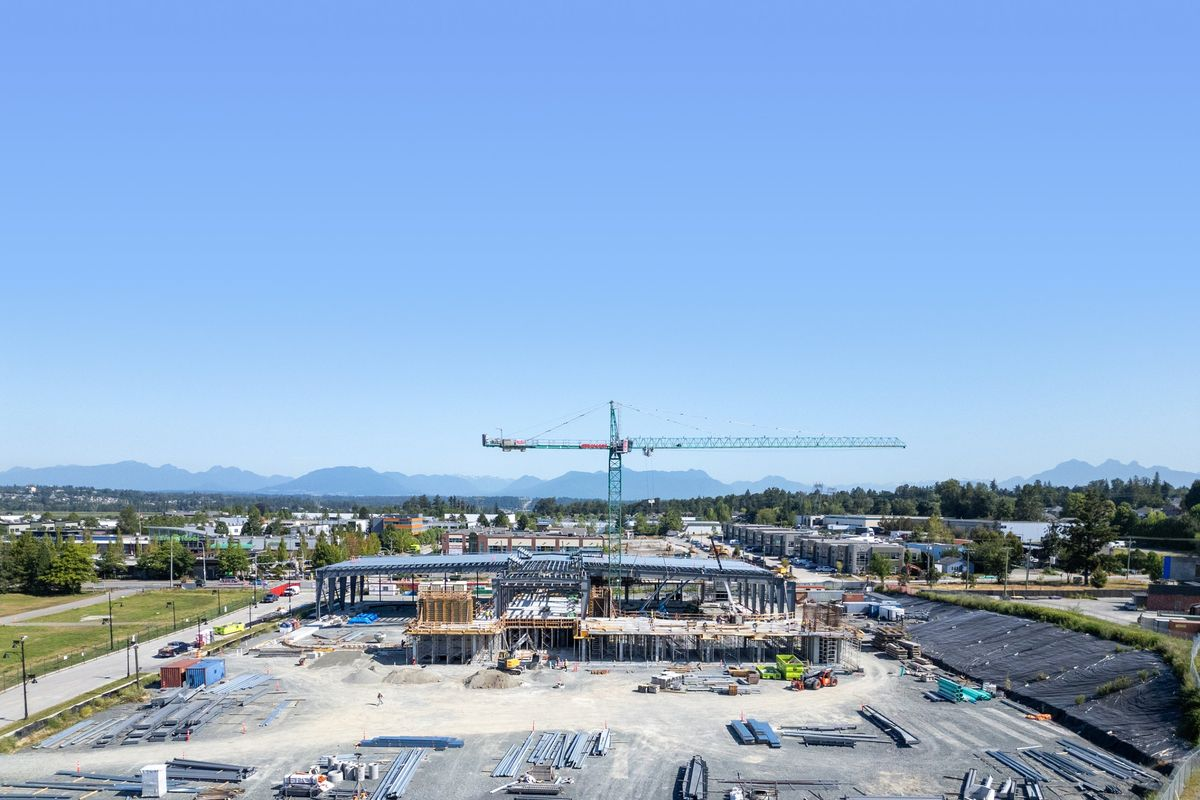
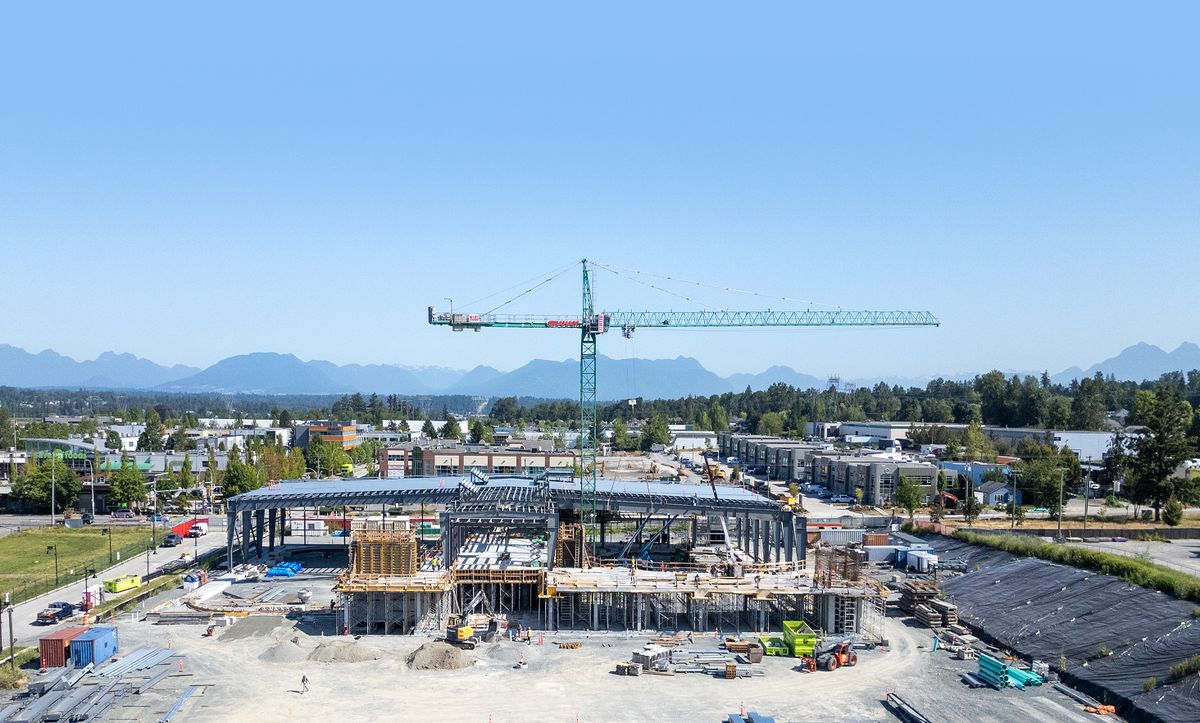
New hero photo, framed so the crane sits clear of the copy
Claude-Session: https://claude.ai/code/session_01VpwYWCBF8DWNYeFpbmxtmr

diff --git a/index.html b/index.html
@@ -68,7 +68,9 @@ button{font:inherit;color:inherit;background:none;border:0;padding:0;cursor:poin
 .band{--travel:72px}
 .band .media > .img{height:calc(100% + var(--travel));transform:translateY(calc(-1 * var(--travel)));will-change:transform}
 /* hero keeps the top of the photo (sky behind the copy); its spare height sits below and it drifts down as it slides under the nav */
-.hero .media > .img{object-position:50% 100%;transform:none}
+.hero .media > .img{object-position:50% 0;transform:none}
+/* the photo's sky is a flat #8ec1f6, so the band can extend it seamlessly */
+.hero .media{background:#8ec1f6}
 .col.c0 .media > .img{object-position:50% 100%}
 
 /* ---------- nav ---------- */
@@ -274,6 +276,8 @@ footer a:hover{background:var(--tint)}
 @media (max-width:820px){
   :root{--gutter:16px;--nav-x:16px}
   .band{--travel:44px}
+  /* on phones, drop the photo below the copy and let the flat sky fill above it */
+  .hero .media > .img{top:150px;height:calc(100% - 150px + var(--travel))}
   .nav{grid-template-columns:1fr auto;height:60px}
   .links,.menu{display:none}
   .burger{display:grid}
@@ -447,7 +451,7 @@ footer a:hover{background:var(--tint)}
 
 <main id="top">
   <section class="band hero on-dark" aria-labelledby="h-hero">
-    <div class="media"><img class="img" id="heroImg" src="assets/hero-2000.jpg" srcset="assets/hero-1200.jpg 1200w, assets/hero-2000.jpg 2000w" sizes="100vw" alt="Aerial view of a large steel building under construction, with a tower crane and mountains beyond" fetchpriority="high"></div>
+    <div class="media"><img class="img" id="heroImg" src="assets/hero-1464.jpg" srcset="assets/hero-1200.jpg 1200w, assets/hero-1464.jpg 1464w" sizes="100vw" alt="Aerial view of a large steel building under construction, with a tower crane and mountains beyond" fetchpriority="high"></div>
     <div class="copy">
       <div class="copy-text">
         <p class="eyebrow" data-in style="--d:300">Custom Pre-Engineered Steel Buildings</p>

diff --git a/src/page.html b/src/page.html
@@ -45,7 +45,9 @@ button{font:inherit;color:inherit;background:none;border:0;padding:0;cursor:poin
 .band{--travel:72px}
 .band .media > .img{height:calc(100% + var(--travel));transform:translateY(calc(-1 * var(--travel)));will-change:transform}
 /* hero keeps the top of the photo (sky behind the copy); its spare height sits below and it drifts down as it slides under the nav */
-.hero .media > .img{object-position:50% 100%;transform:none}
+.hero .media > .img{object-position:50% 0;transform:none}
+/* the photo's sky is a flat #8ec1f6, so the band can extend it seamlessly */
+.hero .media{background:#8ec1f6}
 .col.c0 .media > .img{object-position:50% 100%}
 
 /* ---------- nav ---------- */
@@ -251,6 +253,8 @@ footer a:hover{background:var(--tint)}
 @media (max-width:820px){
   :root{--gutter:16px;--nav-x:16px}
   .band{--travel:44px}
+  /* on phones, drop the photo below the copy and let the flat sky fill above it */
+  .hero .media > .img{top:150px;height:calc(100% - 150px + var(--travel))}
   .nav{grid-template-columns:1fr auto;height:60px}
   .links,.menu{display:none}
   .burger{display:grid}
@@ -423,7 +427,7 @@ footer a:hover{background:var(--tint)}
 
 <main id="top">
   <section class="band hero on-dark" aria-labelledby="h-hero">
-    <div class="media"><img class="img" id="heroImg" src="assets/hero-2000.jpg" srcset="assets/hero-1200.jpg 1200w, assets/hero-2000.jpg 2000w" sizes="100vw" alt="Aerial view of a large steel building under construction, with a tower crane and mountains beyond" fetchpriority="high"></div>
+    <div class="media"><img class="img" id="heroImg" src="assets/hero-1464.jpg" srcset="assets/hero-1200.jpg 1200w, assets/hero-1464.jpg 1464w" sizes="100vw" alt="Aerial view of a large steel building under construction, with a tower crane and mountains beyond" fetchpriority="high"></div>
     <div class="copy">
       <div class="copy-text">
         <p class="eyebrow" data-in style="--d:300">Custom Pre-Engineered Steel Buildings</p>
